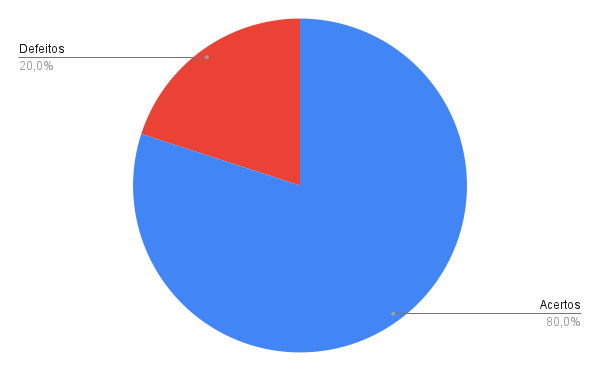
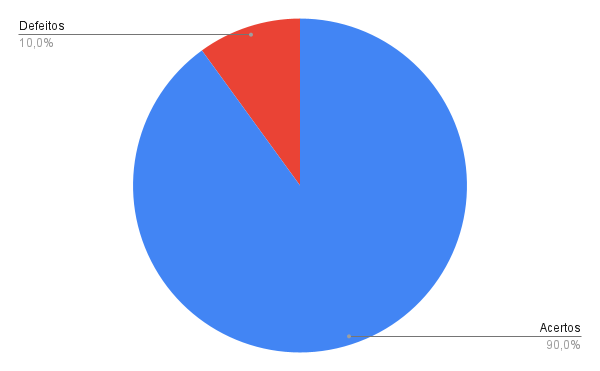
adição dos graficos

diff --git a/docs/verificacao/verif-rel-storyboard.md b/docs/verificacao/verif-rel-storyboard.md
@@ -35,19 +35,19 @@ ID | Questão | Inspeção
 7 | A metodologia da avaliação é explicado claramente? | ✅
 8 | A metodologia condiz com a pré-estabelecida no planejamento? | ❌
 9 | Possui referências bibliográficas? | ✅
-10 | Foi apresentado o Termo de Consentimento? | ❌
+10 | Possui as respostas dos entrevistados? | ✅
 
 
 ## 4. Correção
-
-...
+TODFO
+Após a etapa de Inspeção, foram observados que a metodologia aplicada no relato do storyboard não coincide com a pré-estabelecida no planejamento, além do termo de consentimento não ter sido apresentado. Para corrigir o artefato e deixá-lo mais coerente, deve-se fazer esses ajustes, adicionando o termo de consentimento utilizado e atualizando o planejamento para a metodologia que realmente foi utilizada.
 
 ## 5. Acompanhamento
 ### 5.1. Porcentagem de sucesso da checklist
 
-- 2 Defeitos
-- 8 Acertos
-- 80% de acertos
+- 1 Defeitos
+- 9 Acertos
+- 90% de acertos
 
 ### 5.2. Gráfico de acompanhamento
 
